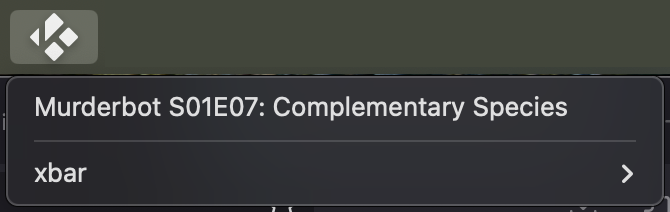
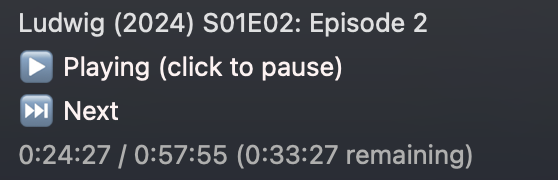
Add Next button

Changed region(s): [[0.0, 0.0278, 1.0, 1.0], [0.914, 0.7778, 0.9444, 0.8611]]

diff --git a/xbar-kodi.5s.py b/xbar-kodi.5s.py
@@ -45,6 +45,7 @@ class _Main:
         subparsers = parser.add_subparsers(dest="command")
         set_status_parser = subparsers.add_parser("set-status")
         set_status_parser.add_argument("status", choices=["playing", "paused"])
+        subparsers.add_parser("next")
         args = parser.parse_args()
 
         cmd_kwargs = dict(args._get_kwargs())
@@ -70,9 +71,17 @@ class _Main:
             self._config.password,
         )
 
+        self._self_params = [
+            f"--url={self._config.url}",
+            f"--username={self._config.username}",
+            f"--password={self._config.password}",
+            f"--log-filename={self._config.log_filename}",
+        ]
+
         cmd_func = {
             None: self._cmd_default,
             "set-status": self._cmd_set_status,
+            "next": self._cmd_next,
         }[cmd_name]
 
         self._logger.debug(f"calling {cmd_func.__name__}({cmd_kwargs})")
@@ -132,20 +141,12 @@ class _Main:
             status = "playing" if speed > 0 else "paused"
 
             if item["type"] == "episode":
-                self._logger.debug("Constructing title for tvshow")
                 playing_title = f"{item['showtitle']} S{item['season']:02d}E{item['episode']:02d}: {item['title']}"
             elif item["type"] == "movie":
-                self._logger.debug("Constructing title for movies")
                 playing_title = f"{item['title']} ({item['year']})"
             elif item["title"]:
-                self._logger.debug(
-                    "Constructing title for item with a 'title' property"
-                )
                 playing_title = item["title"]
             elif item["label"]:
-                self._logger.debug(
-                    "Constructing title for item with a 'label' property"
-                )
                 playing_title = item["label"]
 
         self._output(f"| templateImage={ICON}")
@@ -167,17 +168,24 @@ class _Main:
             else:
                 raise ValueError("Unexpected status")
 
-            self_params = [
-                f"--url={self._config.url}",
-                f"--username={self._config.username}",
-                f"--password={self._config.password}",
-                f"--log-filename={self._config.log_filename}",
+            set_status_params = [
+                *self._self_params,
                 "set-status",
                 action_status,
             ]
             self._output(
-                f"{status_title} | refresh=true color=#feeeee {self._self_params_str(*self_params)}"
+                f"{status_title} | refresh=true color=#feeeee {self._self_params_str(*set_status_params)}"
             )
+
+            if status == "playing":
+                # Add Next button when playing
+                next_params = [
+                    *self._self_params,
+                    "next",
+                ]
+                self._output(
+                    f"⏭ Next | refresh=true color=#feeeee {self._self_params_str(*next_params)}"
+                )
 
             if time is not None and total_time is not None:
                 remaining = total_time - time
@@ -199,6 +207,18 @@ class _Main:
             "Player.PlayPause",
             playerid=first_active_player_id,
             play=status == "playing",
+        )
+
+    def _cmd_next(self):
+        first_active_player_id = self._get_first_active_player_id()
+
+        if not first_active_player_id:
+            return
+
+        self._kodi_rpc.call(
+            "Player.GoTo",
+            playerid=first_active_player_id,
+            to="next",
         )
 
     def _output(self, line: str):

diff --git a/README.md b/README.md
@@ -2,6 +2,4 @@
 
 xbar plugin for Kodi.
 
-Currently just shows the playing file:
-
 ![](images/screenshot.png)
